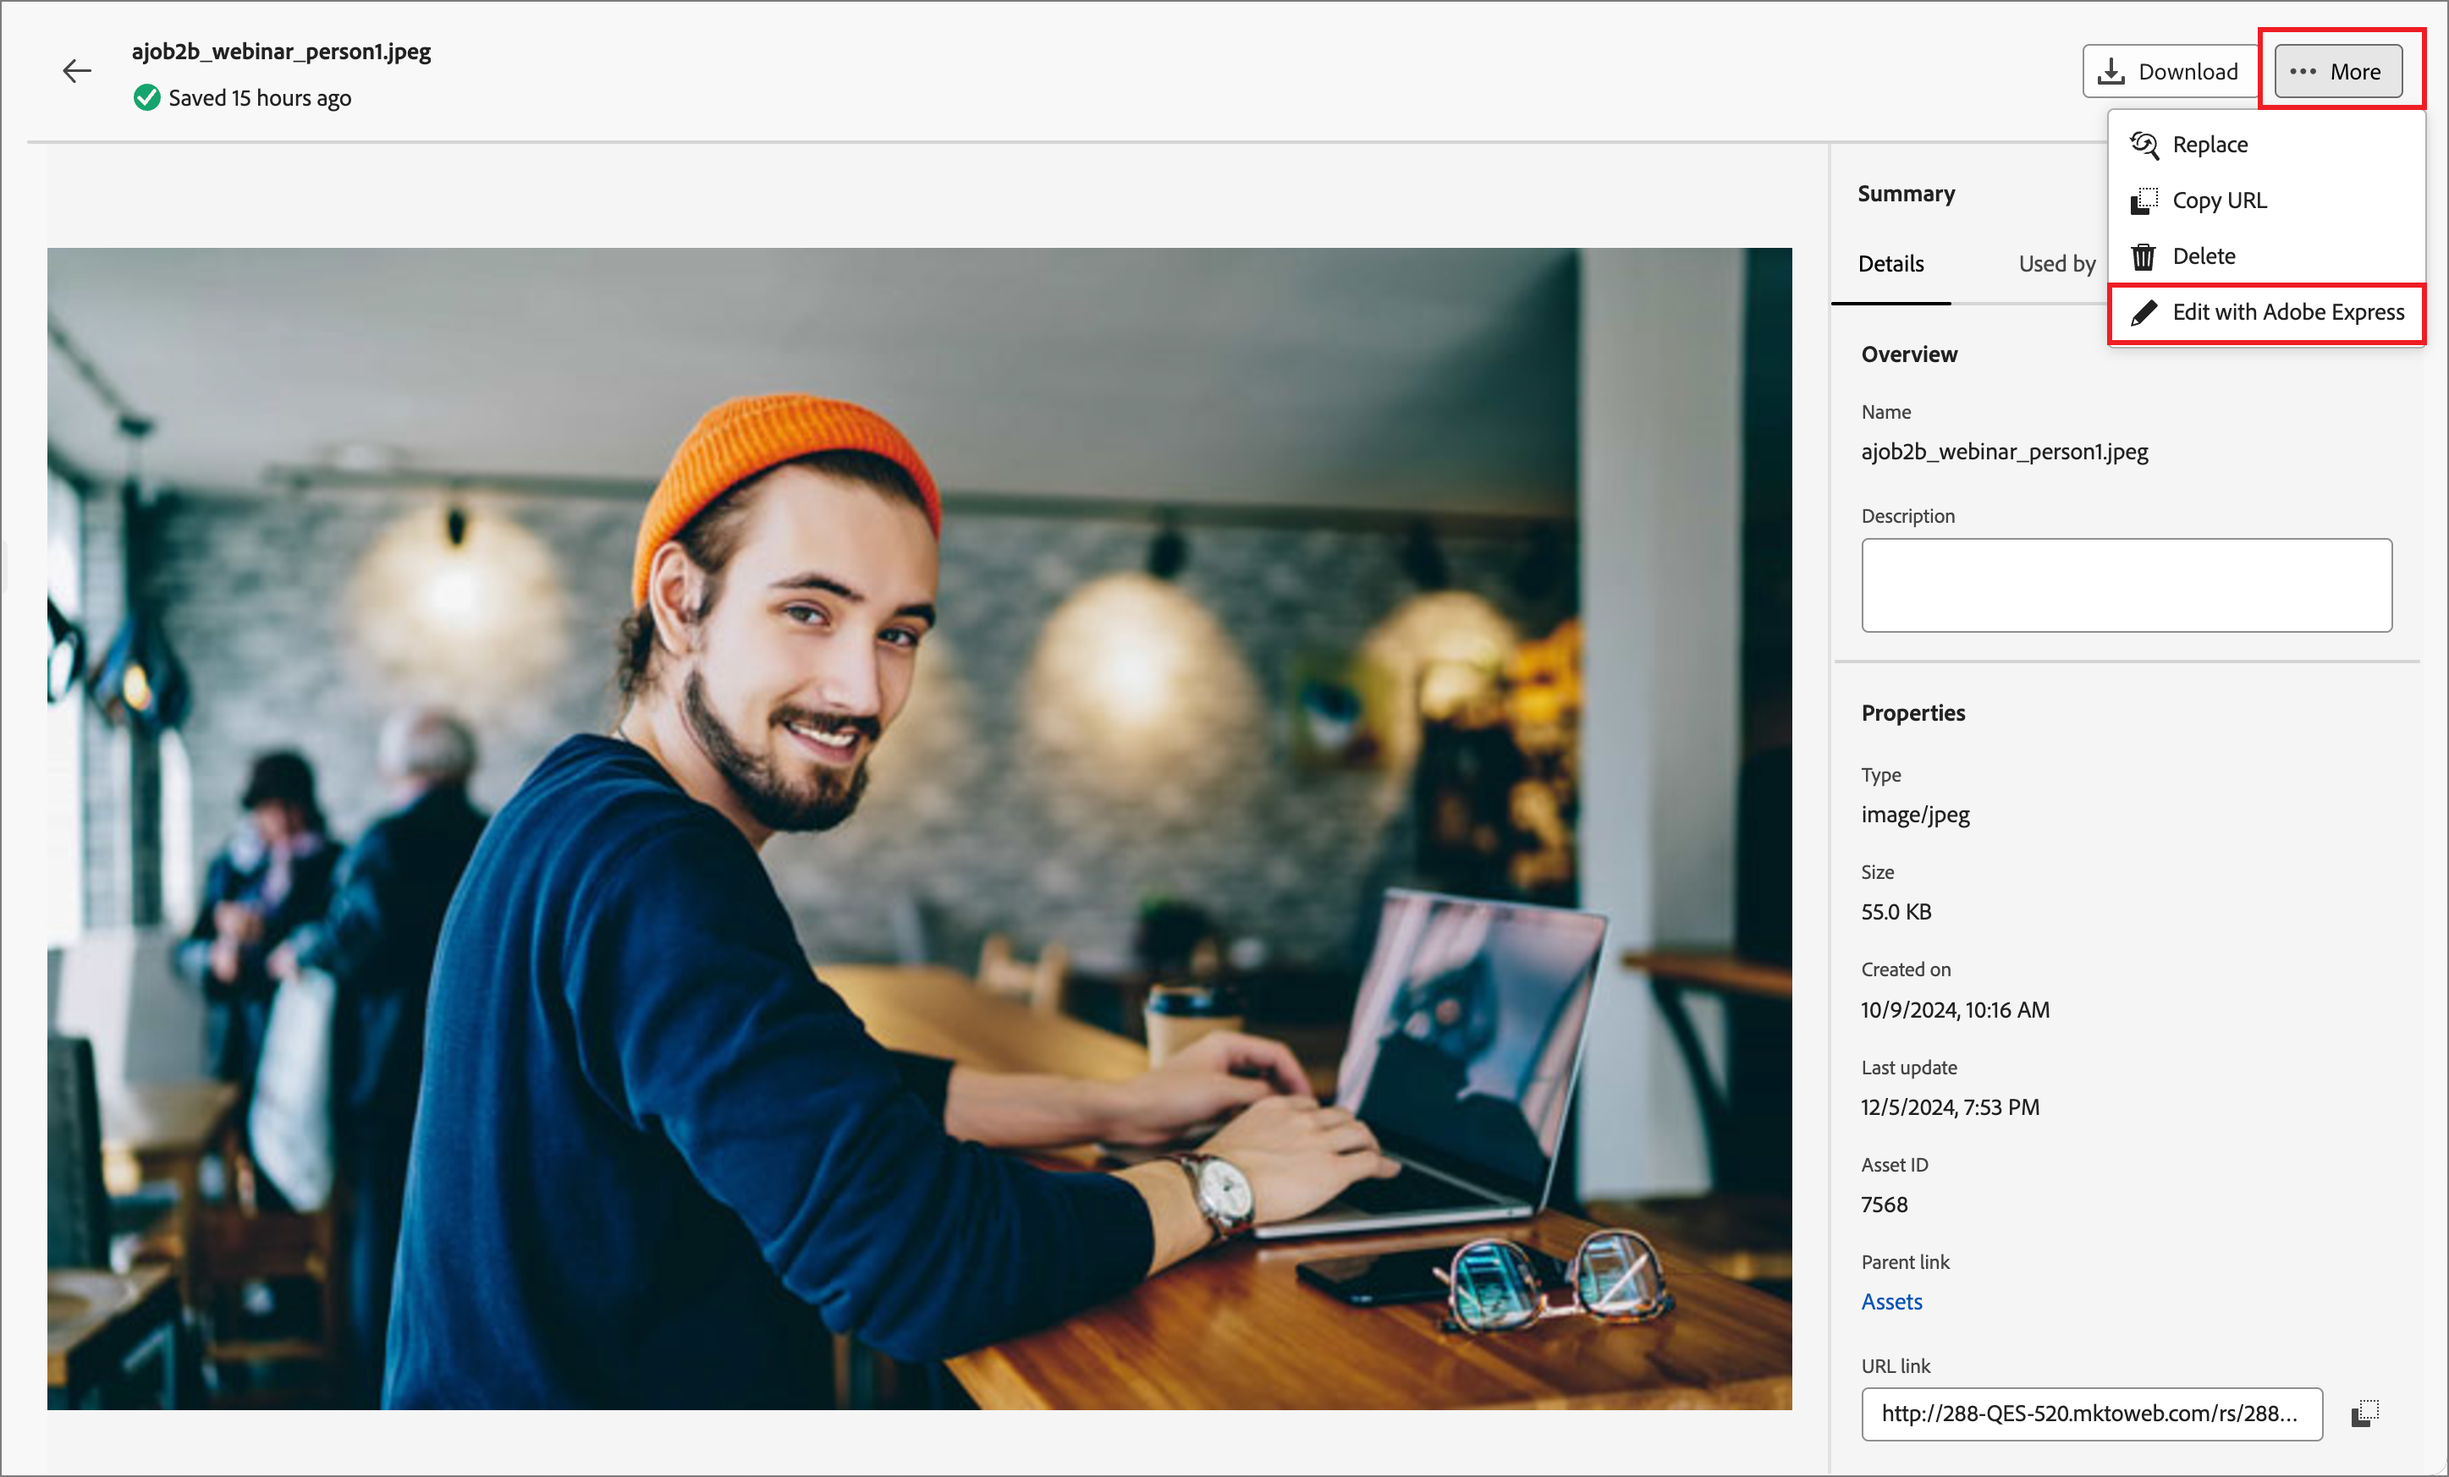
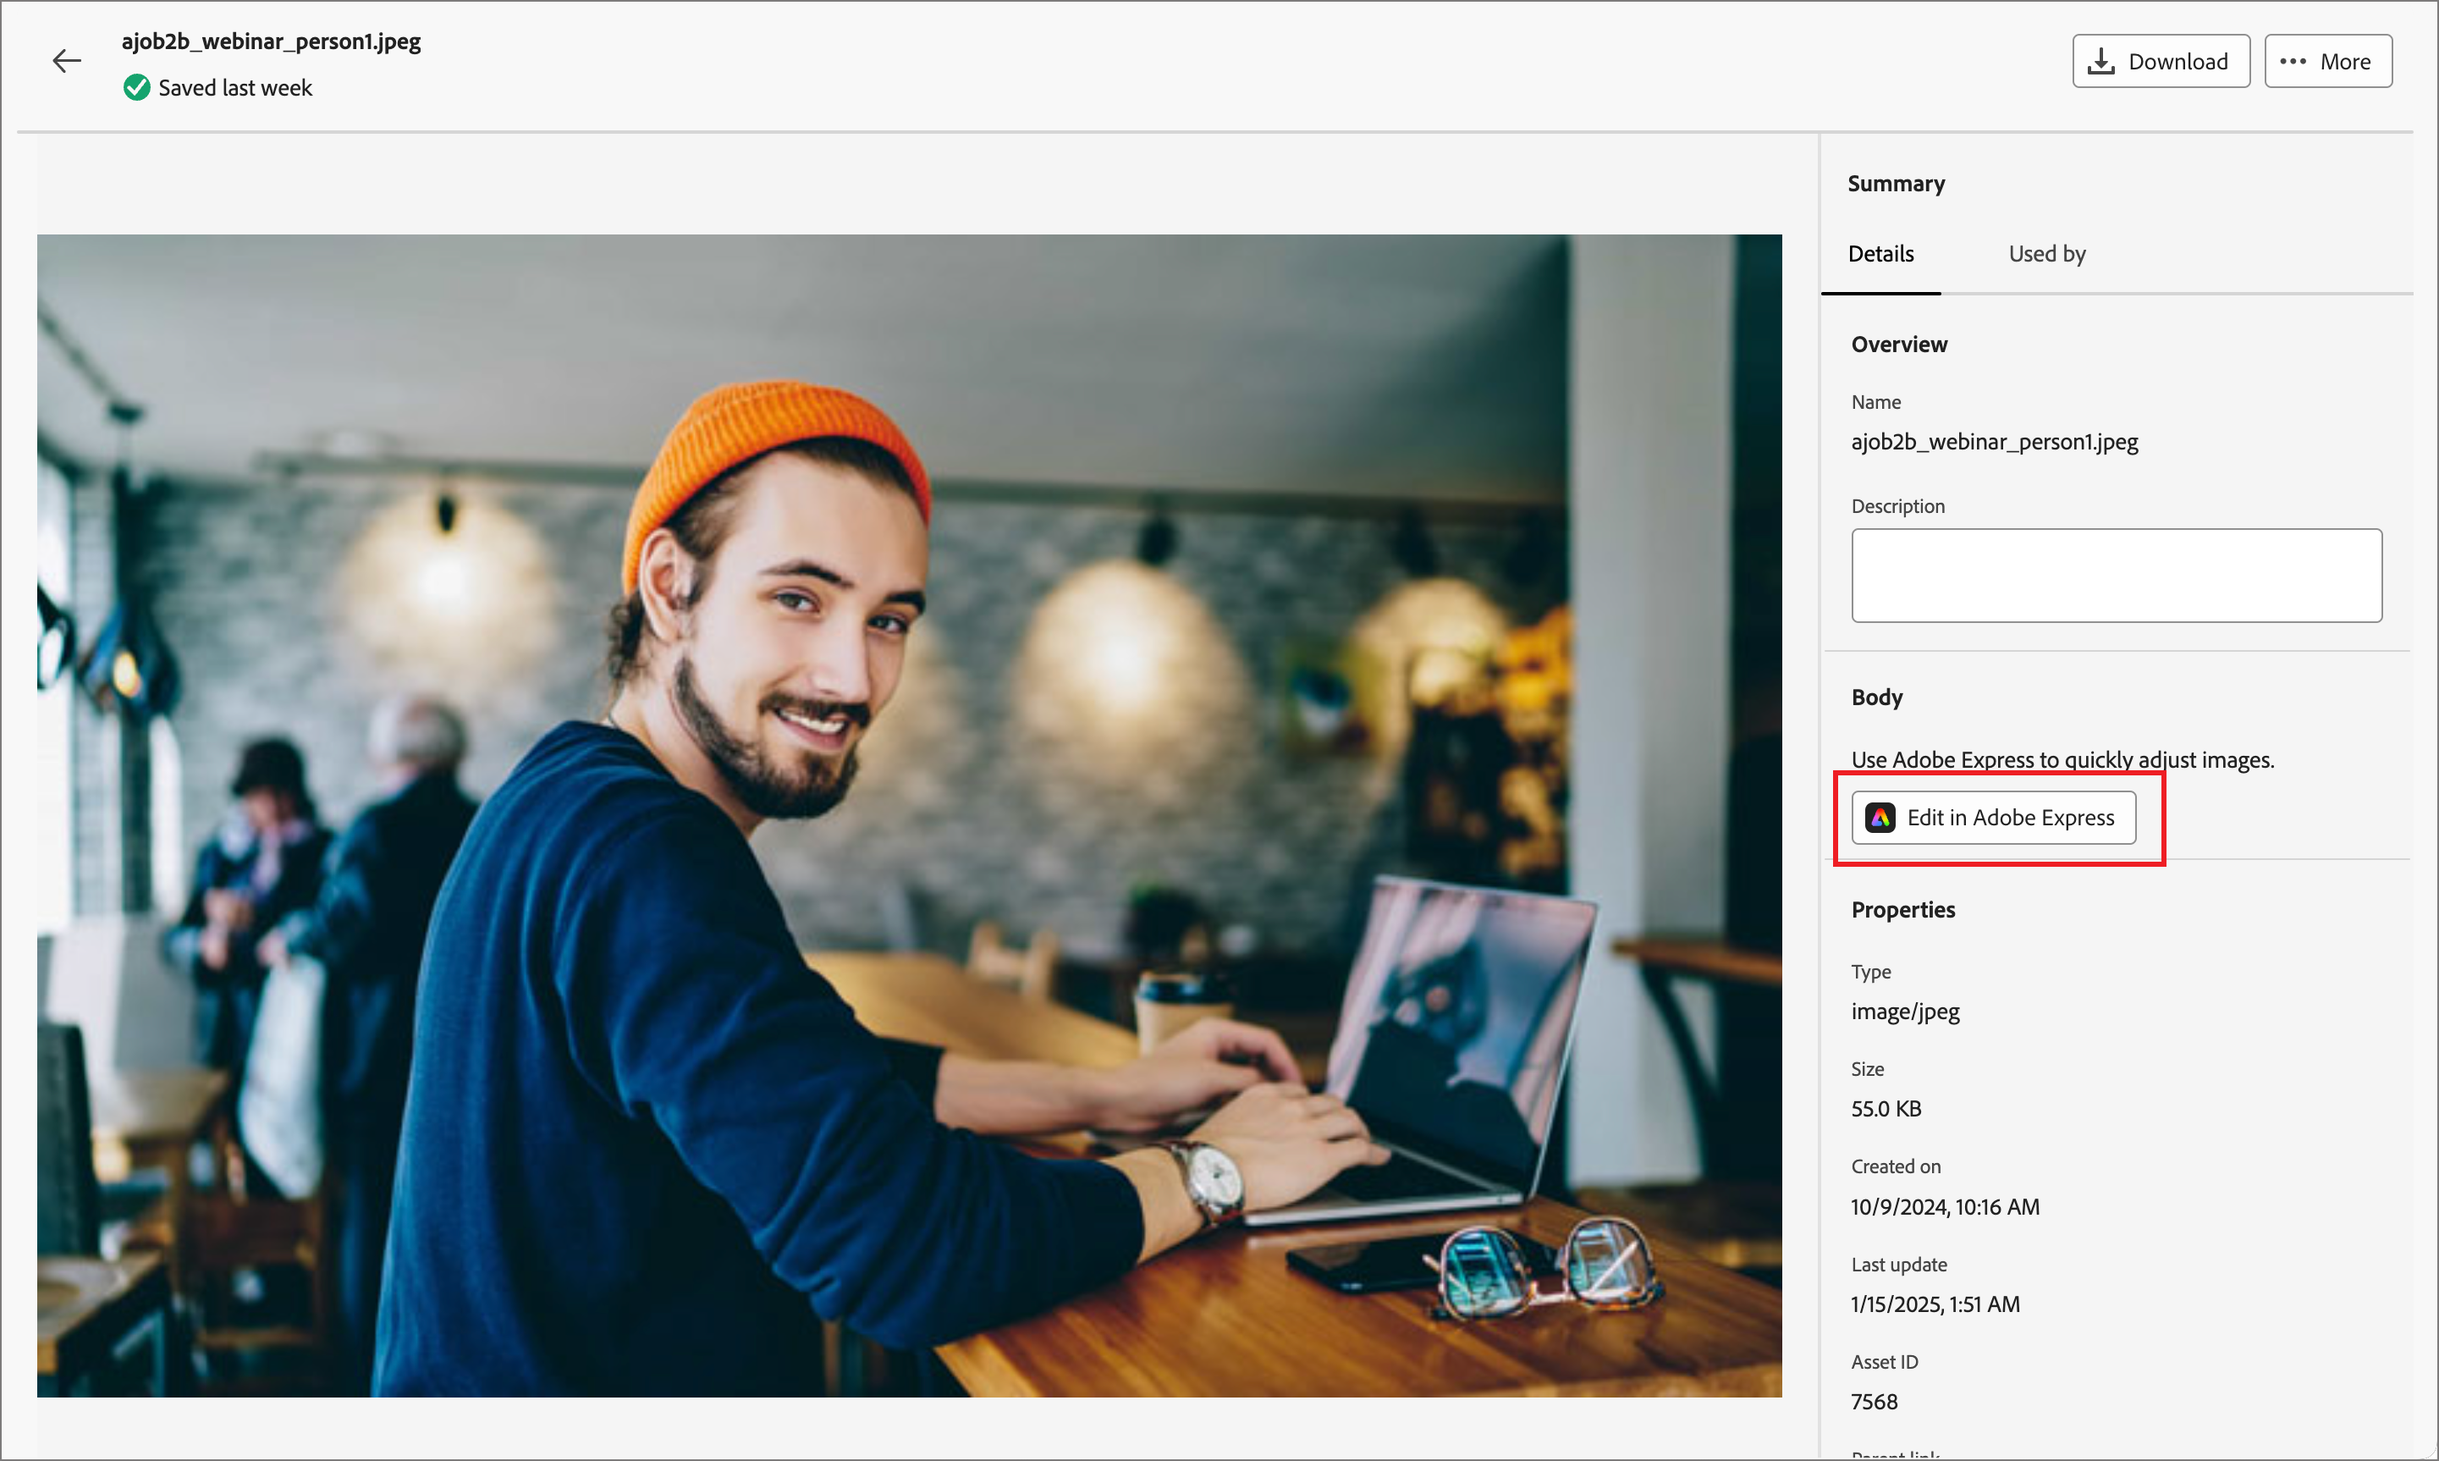
Updates for Adobe Express editing UI

diff --git a/help/user/content/image-edit-adobe-express.md b/help/user/content/image-edit-adobe-express.md
@@ -43,23 +43,25 @@ _To modify an image:_
 
    >[!TIP]
    >
-   >It is a best practice to select [the _[!UICONTROL Used By]_ tab](./marketo-engage-design-studio.md#view-asset-used-by-references) in the image details to review the content where the image is currently used before you proceed to make edits to the image file.
+   >It is a best practice to select [the _[!UICONTROL Used By]_ tab](./marketo-engage-design-studio.md#view-asset-used-by-references) in the image details and review the content where the image is currently used before you proceed to make edits to the image file.
 
-1. Click the **[!UICONTROL More]** menu at the top right and choose **[!UICONTROL Edit with Adobe Express]**.
+1. In the image _[!UICONTROL Details]_ on the right, click **[!UICONTROL Edit with Adobe Express]**.
 
     ![Open the image in the Adobe Express editor](./assets/assets-edit-adobe-express.png){width="600" zoomable="yes"}
 
-    This action opens the Adobe Express editor, with a list of available capabilities displayed on the left.
+    If the image is in use, an alert dialog appears to inform you that any changes you make will affect that content. Click **[!UICONTROL Continue]** to proceed to the Adobe Express editor.
 
-1. Select any of the image modification functions to alter the image.
+    ![An alert provides information about image usage](./assets/assets-edit-adobe-express-usage-alert.png){width="300"}
 
-    ![Select an edit type to modify the image](./assets/assets-edit-adobe-express-left-menu.png){width="600" zoomable="yes"}    
+1. In the Adobe Express editor, select any of the image modification functions to alter the image.
 
     * [**[!UICONTROL Resize image]**](#resize-image)
     * [**[!UICONTROL Remove background]**](#remove-background)
     * [**[!UICONTROL Crop image]**](#crop-image)
     * [**[!UICONTROL Convert to PNG]**](#convert-file-format) (when a JPEG image is loaded)
     * [**[!UICONTROL Convert to JPEG]**](#convert-file-format) (when a PNG image is loaded)
+
+   ![Select an edit type to modify the image](./assets/assets-edit-adobe-express-left-menu.png){width="600" zoomable="yes"}  
 
 1. When you return to the main Adobe Express editor, make sure to click **[!UICONTROL Save]** again to save the modified image file in the Journey Optimizer B2B Edition asset workspace using the same file name.
 
